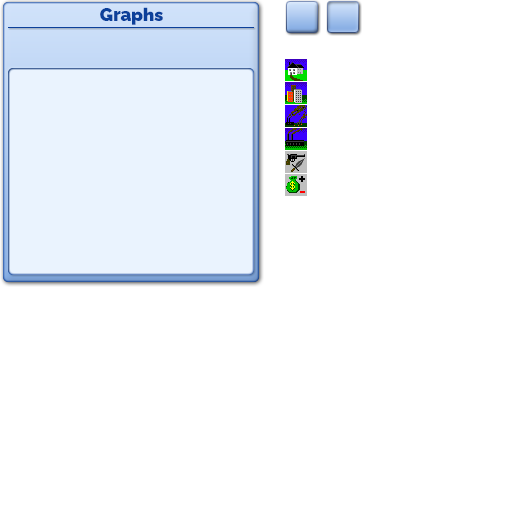
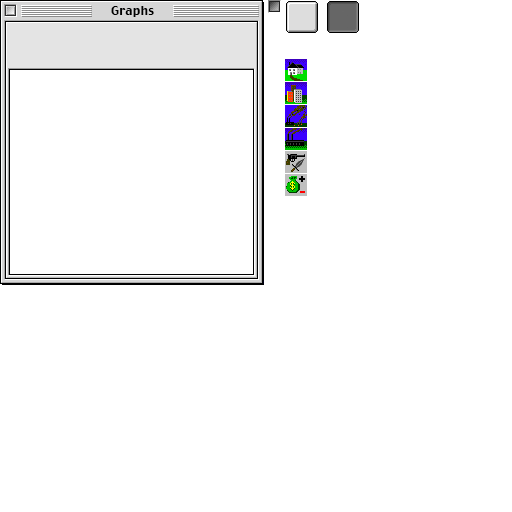
Update visuals

Changed region(s): [[0.0, 0.0, 0.7188, 0.5625]]

diff --git a/src/GraphWindow.cpp b/src/GraphWindow.cpp
@@ -25,8 +25,11 @@ namespace
 	const SDL_Rect GraphLayout{ 10, 71, 242, 202 };
 	SDL_Rect GraphPosition = GraphLayout;
 
-	const SDL_Rect TitleBarLayout{ 6, 5, 250, 21 };
+	const SDL_Rect TitleBarLayout{ 2, 2, 261, 19 };
 	SDL_Rect TitleBarPosition = TitleBarLayout;
+
+	const SDL_Rect CloseButtonLayout{ 4, 4, 13, 13 };
+	SDL_Rect CloseButtonPosition = CloseButtonLayout;
 
 
 	enum class ButtonId
@@ -121,6 +124,7 @@ void GraphWindow::onMoved(const Vector<int>& movement)
 {
 	GraphPosition = { GraphLayout.x + mArea.x, GraphLayout.y + mArea.y, GraphLayout.w, GraphLayout.h };
 	TitleBarPosition = { TitleBarLayout.x + mArea.x, TitleBarLayout.y + mArea.y, TitleBarLayout.w, TitleBarLayout.h };
+	CloseButtonPosition = { CloseButtonLayout.x + mArea.x, CloseButtonLayout.y + mArea.y, CloseButtonLayout.w, TitleBarLayout.h };
 
 	for (auto& button : Buttons)
 	{
@@ -134,6 +138,7 @@ void GraphWindow::onPositionChanged(const Point<int>& position)
 {
 	GraphPosition = { GraphLayout.x + mArea.x, GraphLayout.y + mArea.y, GraphLayout.w, GraphLayout.h };
 	TitleBarPosition = { TitleBarLayout.x + mArea.x, TitleBarLayout.y + mArea.y, TitleBarLayout.w, TitleBarLayout.h };
+	CloseButtonPosition = { CloseButtonLayout.x + mArea.x, CloseButtonLayout.y + mArea.y, CloseButtonLayout.w, TitleBarLayout.h };
 
 	for (auto& button : Buttons)
 	{
@@ -146,6 +151,13 @@ void GraphWindow::onPositionChanged(const Point<int>& position)
 void GraphWindow::injectMouseDown(const Point<int>& position)
 { 
 	const SDL_Point& pt{ position.x, position.y };
+
+	if (SDL_PointInRect(&pt, &CloseButtonPosition))
+	{
+		hide();
+		return;
+	}
+
 	if (SDL_PointInRect(&pt, &TitleBarPosition))
 	{
 		mDragging = true;

diff --git a/src/EvaluationWindow.cpp b/src/EvaluationWindow.cpp
@@ -13,7 +13,7 @@
 
 namespace
 {
-    const SDL_Rect BgRect{ 0, 1, 511, 320 };
+    const SDL_Rect BgRect{ 0, 0, 503, 256 };
 };
 
 
@@ -23,7 +23,7 @@ EvaluationWindow::EvaluationWindow(SDL_Renderer* renderer):
     mTexture(loadTexture(renderer, "images/EvalWindow.png")),
     mRenderer{ renderer }
 {
-    size({ 511, 320 });
+    size({ 503, 256 });
 }
 
 

diff --git a/src/main.cpp b/src/main.cpp
@@ -461,8 +461,8 @@ void loadGraphics()
 
 void loadFonts()
 {
-    MainFont = std::make_unique<Font>("res/raleway-medium.ttf", 12);
-    MainBigFont = std::make_unique<Font>("res/raleway-medium.ttf", 14);
+    MainFont = std::make_unique<Font>("res/Voltaire-Regular.ttf", 12);
+    MainBigFont = std::make_unique<Font>("res/Voltaire-Regular.ttf", 14);
 }
 
 

diff --git a/src/BudgetWindow.cpp b/src/BudgetWindow.cpp
@@ -139,7 +139,7 @@ BudgetWindow::BudgetWindow(SDL_Renderer* renderer, const StringRender& stringRen
 	mBudget(budget),
 	mRenderer(renderer),
 	mStringRenderer(stringRenderer),
-	mFont(new Font("res/raleway-medium.ttf", 14)),
+	mFont(new Font("res/Voltaire-Regular.ttf", 14)),
 	mTexture(loadTexture(renderer, "images/budget.png"))
 {
     size({456, 422});
